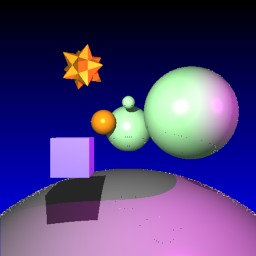
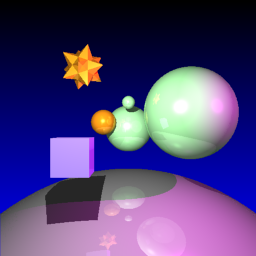
reflection fix#1

diff --git a/cs488/A4/A4.cpp b/cs488/A4/A4.cpp
@@ -250,7 +250,11 @@ dvec3 directLight(const std::list<Light*> & lights, const intersection & int_pri
 	ray reflected(point + EPSILON * Rr_dir, Rr_dir);
 	Hit hc = compute_ray_color(reflected, lights, counter + 1);
 
-	// calculate diffused color.
+	Ri = glm::normalize(glm::dvec3(int_primary.received_ray.dir));
+	N = glm::normalize(glm::dvec3(int_primary.normal));
+	Rr = Ri - 2.0 * N * (glm::dot(Ri, N));
+
+	// calculate diffused color
 	for (auto light : lights) {
 		glm::dvec3 colorSum {0, 0, 0};
 		glm::dvec4 point = int_primary.received_ray.origin + int_primary.received_ray.dir * int_primary.t;
